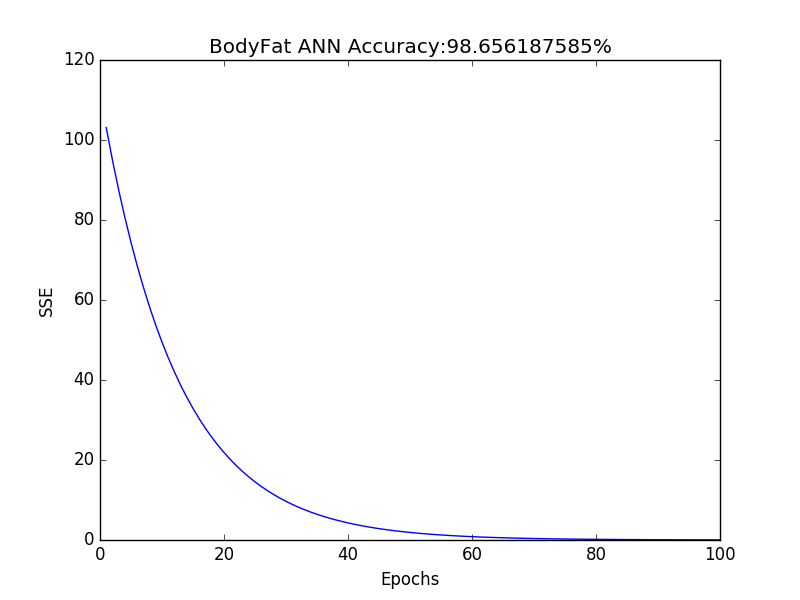
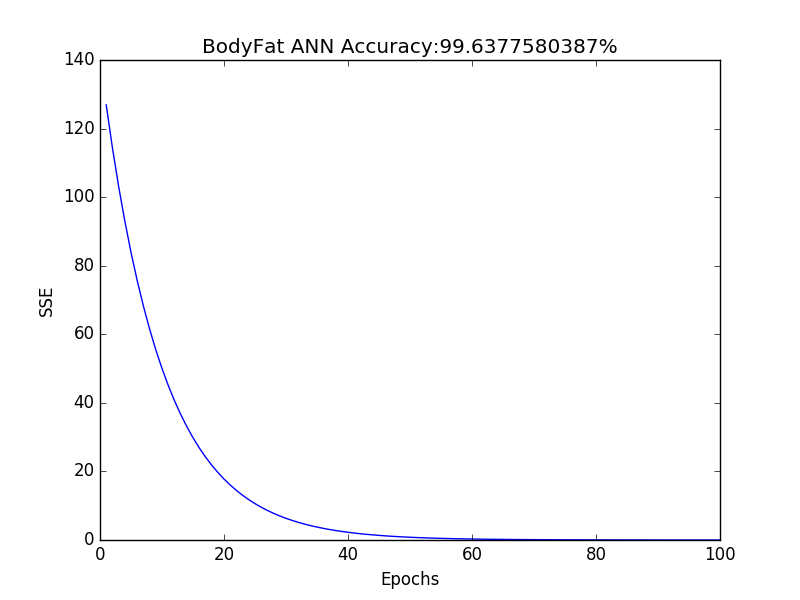
Modify ann code for all feature data extraction

diff --git a/bodyfat_ann_model.py b/bodyfat_ann_model.py
@@ -1,37 +1,37 @@
 import matplotlib.pyplot as plt
 import numpy as np
 
-X_file_training = np.genfromtxt('bodyfat.csv', delimiter=',', skip_header=1, max_rows=100)
-N = np.shape(X_file_training)[0]
-print np.shape(X_file_training)[1]
-X = np.hstack((
-				np.ones(N).reshape(N,1),
-				X_file_training[:,1].reshape(N,1),
-				X_file_training[:,2].reshape(N,1),
-				X_file_training[:,3].reshape(N,1),
-				X_file_training[:,4].reshape(N,1),
-				X_file_training[:,5].reshape(N,1),
-				X_file_training[:,6].reshape(N,1),
-				X_file_training[:,7].reshape(N,1),
-				X_file_training[:,8].reshape(N,1),
-				X_file_training[:,9].reshape(N,1),
-				X_file_training[:,10].reshape(N,1),
-				X_file_training[:,11].reshape(N,1),
-				X_file_training[:,12].reshape(N,1),
-				X_file_training[:,13].reshape(N,1),
-				X_file_training[:,14].reshape(N,1),
-			 ))
+#Split the total number of training sets into two halves. One for training and the other for testing
+max_training = np.shape(np.genfromtxt('bodyfat.csv', delimiter=','))[0]/2
 
+#Load the training data set
+X_file_training = np.genfromtxt('bodyfat.csv', delimiter=',', max_rows=max_training)
+N = np.shape(X_file_training)[0]
+
+#Extract all the available column values from the given training set  
+features = []
+for i in range(0,np.shape(X_file_training)[1]):
+	if i == 0:
+		features.append(np.ones(N).reshape(N,1))
+	else:			
+		features.append(X_file_training[:,i].reshape(N,1))
+
+#Create the input np array
+X = np.hstack((features))
 Y = X_file_training[:,0]
- 
+
+#Scale the input vectors using (col.values - mean)/std.dev
 for i in range(1,np.shape(X)[1]):
 	X[:,i] = (X[:, i]-np.mean(X[:, i]))/np.std(X[:, i])
-
 w = np.zeros(np.shape(X)[1])
-eta = 0.1E-3
-max_iter = 100
 
+#Set the learning rate and No of epochs
+eta = 0.2E-3
+max_iter = 100
 sse = []
+
+#Run for max_iter number of epochs and update the wieght by calculating the gradient. 
+#Record the cost function output for error for each epoch
 for t in range(0, max_iter):
 	gradient = np.zeros(np.shape(X)[1]) 
 	for i in range(0, N):
@@ -47,41 +47,33 @@ for t in range(0, max_iter):
 		sse_i += pow(( np.dot(np.transpose(w),x_i) - y_i),2)  
 	sse.append(sse_i)
 
-X_file_testing = np.genfromtxt('bodyfat.csv', delimiter=',', skip_header=101)
+#Load the testing data set
+X_file_testing = np.genfromtxt('bodyfat.csv', delimiter=',', skip_header=max_training+1)
 N = np.shape(X_file_testing)[0]
-X = np.hstack((
-				np.ones(N).reshape(N,1),
-				X_file_testing[:,1].reshape(N,1),
-				X_file_testing[:,2].reshape(N,1),
-				X_file_testing[:,3].reshape(N,1),
-				X_file_testing[:,4].reshape(N,1),
-				X_file_testing[:,5].reshape(N,1),
-				X_file_testing[:,6].reshape(N,1),
-				X_file_testing[:,7].reshape(N,1),
-				X_file_testing[:,8].reshape(N,1),
-				X_file_testing[:,9].reshape(N,1),
-				X_file_testing[:,10].reshape(N,1),
-				X_file_testing[:,11].reshape(N,1),
-				X_file_testing[:,12].reshape(N,1),
-				X_file_testing[:,13].reshape(N,1),
-				X_file_testing[:,14].reshape(N,1),
-			 ))
+
+#Load all available features
+features = []
+for i in range(0,np.shape(X_file_testing)[1]):
+	if i == 0:
+		features.append(np.ones(N).reshape(N,1))
+	else:			
+		features.append(X_file_testing[:,i].reshape(N,1))
+X = np.hstack((features))
 Y = X_file_testing[:,0]
- 
+
+#Scale the testing input
 for i in range(1,np.shape(X)[1]):
 	X[:,i] = (X[:, i]-np.mean(X[:, i]))/np.std(X[:, i])
-
 err = 0
 
+#Find the accuracy and error from target and calculated output
 for i in range(0, N):
-	print "calculated value :",np.dot(np.transpose(w),X[i,:])," actual value :", Y[i]
 	err += abs(Y[i] - np.dot(np.transpose(w),X[i,:]))/Y[i]
-
-
 print "Wieghts : ",w
 print "Accuracy: ",(1-(err/N))*100,"%"
+epochs = [epoch_i+1 for epoch_i in range(0,max_iter)]
 
-epochs = [j+1 for j in range(0,max_iter)]
+#Plot the SSE vs Epochs
 plt.plot(epochs, sse)
 plt.xlabel('Epochs')
 plt.ylabel('SSE')
